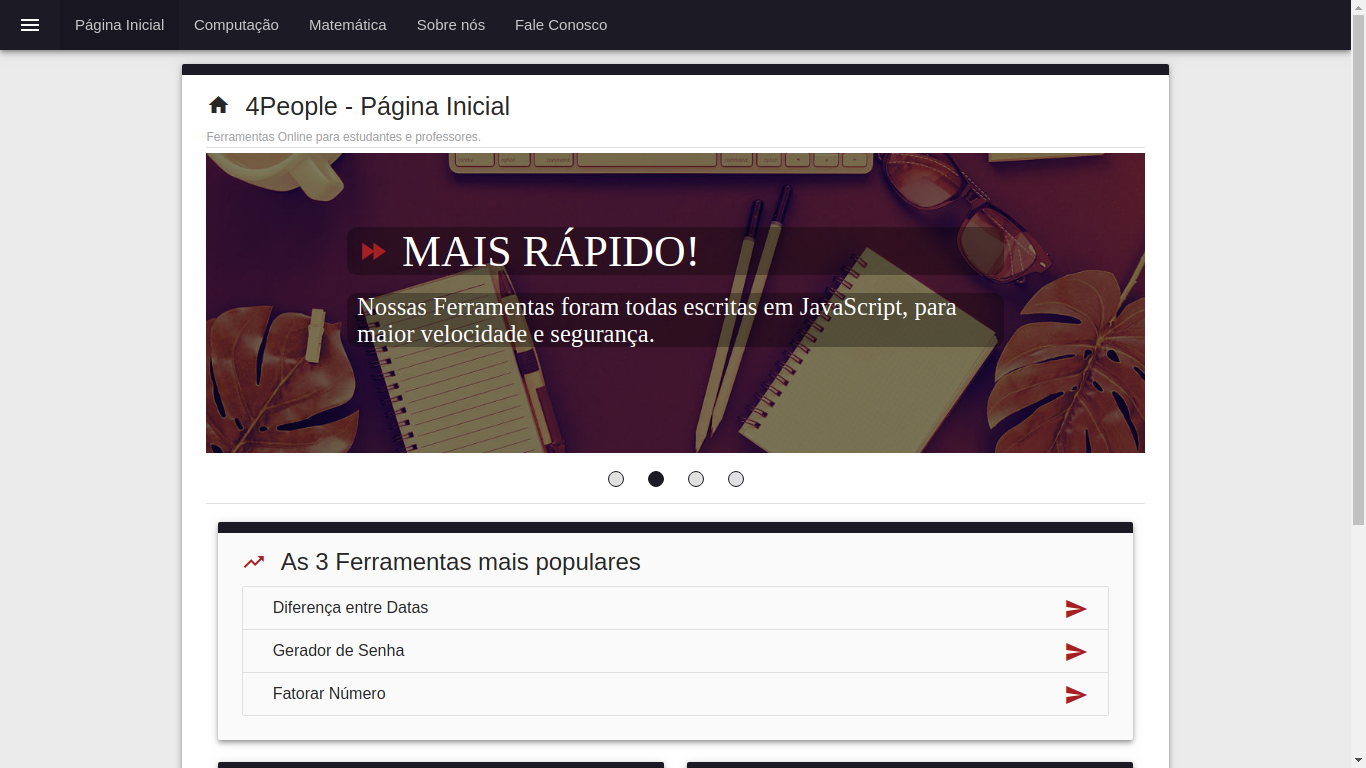
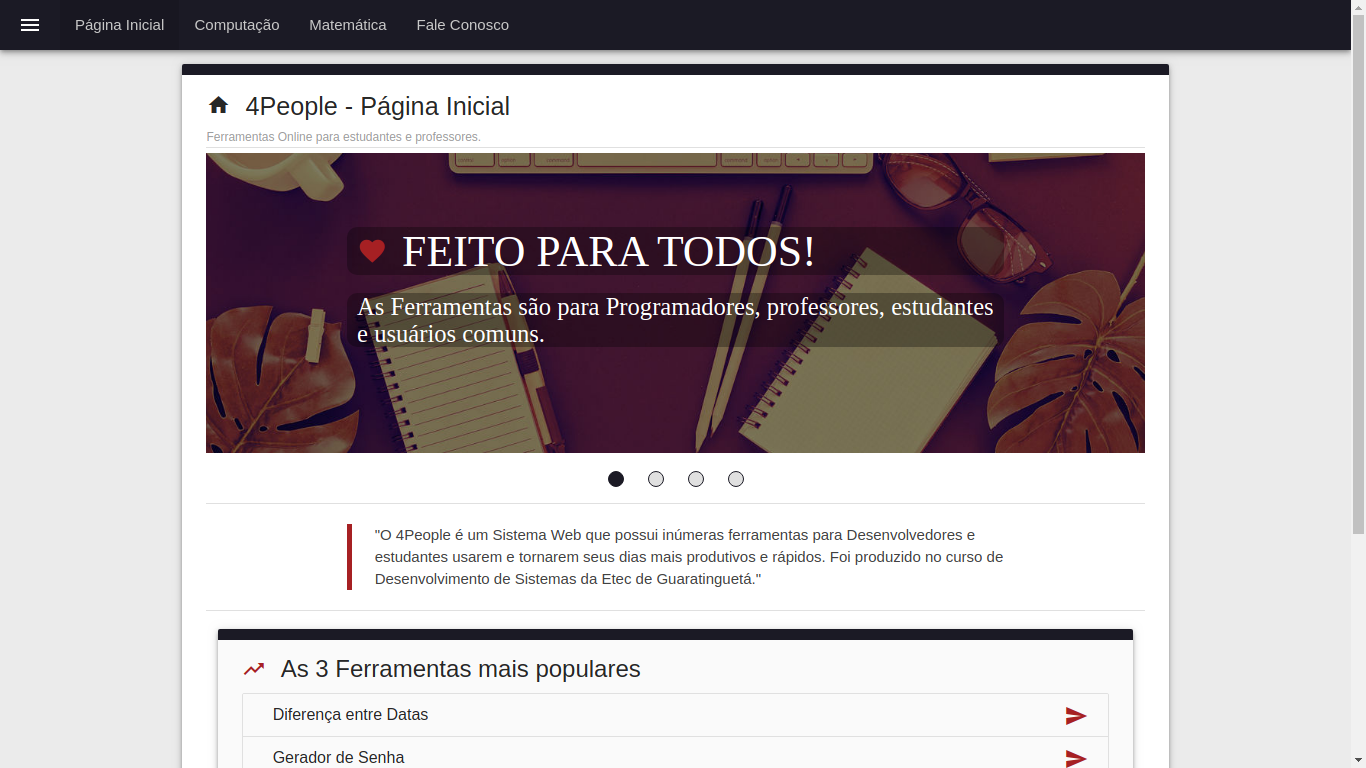
improvements

diff --git a/pages/about/src/index.css b/pages/about/src/index.css
@@ -1,3 +1,3 @@
-ul li img {
-	position: relative
+blockquote {
+	border-left-color: #A62023
 }

diff --git a/pages/about/index.php b/pages/about/index.php
@@ -34,6 +34,50 @@
 				<label>4People é um site feito para ajudar estudantes, professores, programadores e pessoas em suas atividades diárias.</label>
 				<div class="divider"></div>
 
+				<h4 class="center-align">Equipe</h4>
+
+				<div class="row" style="margin-top:20px">
+					<div class="col s12 m6 l4">
+						<img title="Lucas Bittencourt" class="responsive-img circle" src="<?= $assets ?>/images/lucas_bittencourt.jpg" alt="">
+					</div>
+
+					<div class="col s12 m6 l8">
+						<p class="grey-text text-darken-4 mb-0">Nome: Lucas Bittencourt. Função: Desenvolvedor</p>
+
+						<div class="divider mb-2"></div>
+						<blockquote class="grey-text text-darken-3 mt-0">"Lucas Bittencourt, 19, cursando Análise e Desenvolvimento de Sistemas na Fatec de Guaratinguetá e amando Desenvolvimeto Web. Amo aprender coisas novas, distribuições Linux e programar. Um futuro Desenvolvedor fullstack."</blockquote>
+					</div>
+				</div>
+
+				<div class="divider"></div>
+
+				<div class="row" style="margin-top:20px">
+					<div class="col s12 m6 l4">
+						<img title="Suzany Silva" class="responsive-img circle" src="<?= $assets ?>/images/suzany_silva.jpg" alt="">
+					</div>
+
+					<div class="col s12 m6 l8">
+						<p class="grey-text text-darken-4 mb-0">Nome: Suzany Silva. Função: Analista</p>
+
+						<div class="divider mb-2"></div>
+						<blockquote class="grey-text text-darken-3 mt-0">"Suzany Silva, 17, cursando Desenvolvimento de Sistemas na Etec de Guaratinguetá e atuando como Analista no projeto de TCC do 4People."</blockquote>
+					</div>
+				</div>
+
+				<div class="divider"></div>
+
+				<div class="row mb-0" style="margin-top:20px">
+					<div class="col s12 m6 l4">
+						<img title="Renan Mattos" class="responsive-img circle" src="<?= $assets ?>/images/renan_mattos.jpg" alt="">
+					</div>
+
+					<div class="col s12 m6 l8">
+						<p class="grey-text text-darken-4 mb-0">Nome: Renan Mattos. Função: Analista</p>
+
+						<div class="divider mb-2"></div>
+						<blockquote class="grey-text text-darken-3 mt-0">"Renan Mattos, 22, cursando Desenvolvimento de Sistemas na Etec de Guaratinguetá e atuando como Analista no projeto de TCC do 4People."</btn-block>
+					</div>
+				</div>
 
 				<div class="top-div dark-grey"></div>
 			</div>

diff --git a/index.php b/index.php
@@ -72,6 +72,15 @@
 
 				<div class="divider mt-2 mb-2"></div>
 
+				<div class="container">
+					<blockquote class="grey-text text-darken-3" style="border-left-color:#A62023">
+						"O 4People é um Sistema Web que possui inúmeras ferramentas para Desenvolvedores e estudantes usarem e tornarem seus dias mais produtivos e rápidos.
+						Foi produzido no curso de Desenvolvimento de Sistemas da Etec de Guaratinguetá."
+					</blockquote>
+				</div>
+
+				<div class="divider mt-2 mb-2"></div>
+
 				<div class="row mb-0">
 					<div class="col s12">
 						<div class="card grey lighten-5 z-depth-2">

diff --git a/README.md b/README.md
@@ -71,13 +71,16 @@
 ![4people](assets/images/README_images/4people.png "4People - Início")
 
 - Página Inicial 2
-![4people](assets/images/README_images/4people_2.png "4People - Início")
+![4people_2](assets/images/README_images/4people_2.png "4People - Início")
 
 - Computação
-![4people](assets/images/README_images/computacao.png "4People - Computação")
+![computacao](assets/images/README_images/computacao.png "4People - Computação")
 
 - Matemática
-![4people](assets/images/README_images/matematica.png "4People - Matemática")
+![matemaitca](assets/images/README_images/matematica.png "4People - Matemática")
+
+- Sobre nós
+![sobre](assets/images/README_images/matematica.png "4People - Sobre")
 
 - Fale Conosco
-![4people](assets/images/README_images/fale_conosco.png "4People - Fale Conosco")
+![fale_conosco](assets/images/README_images/fale_conosco.png "4People - Fale Conosco")
